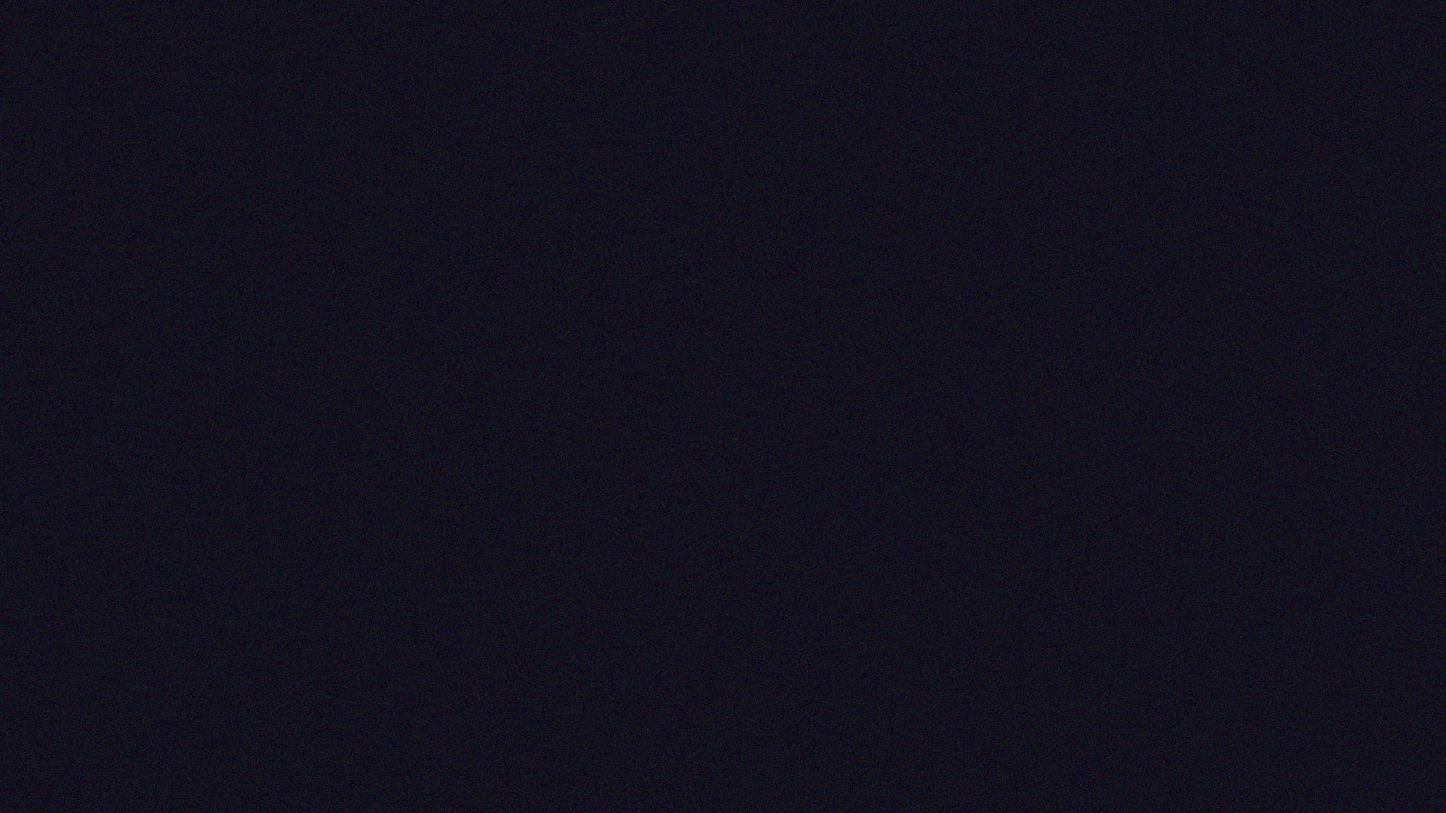
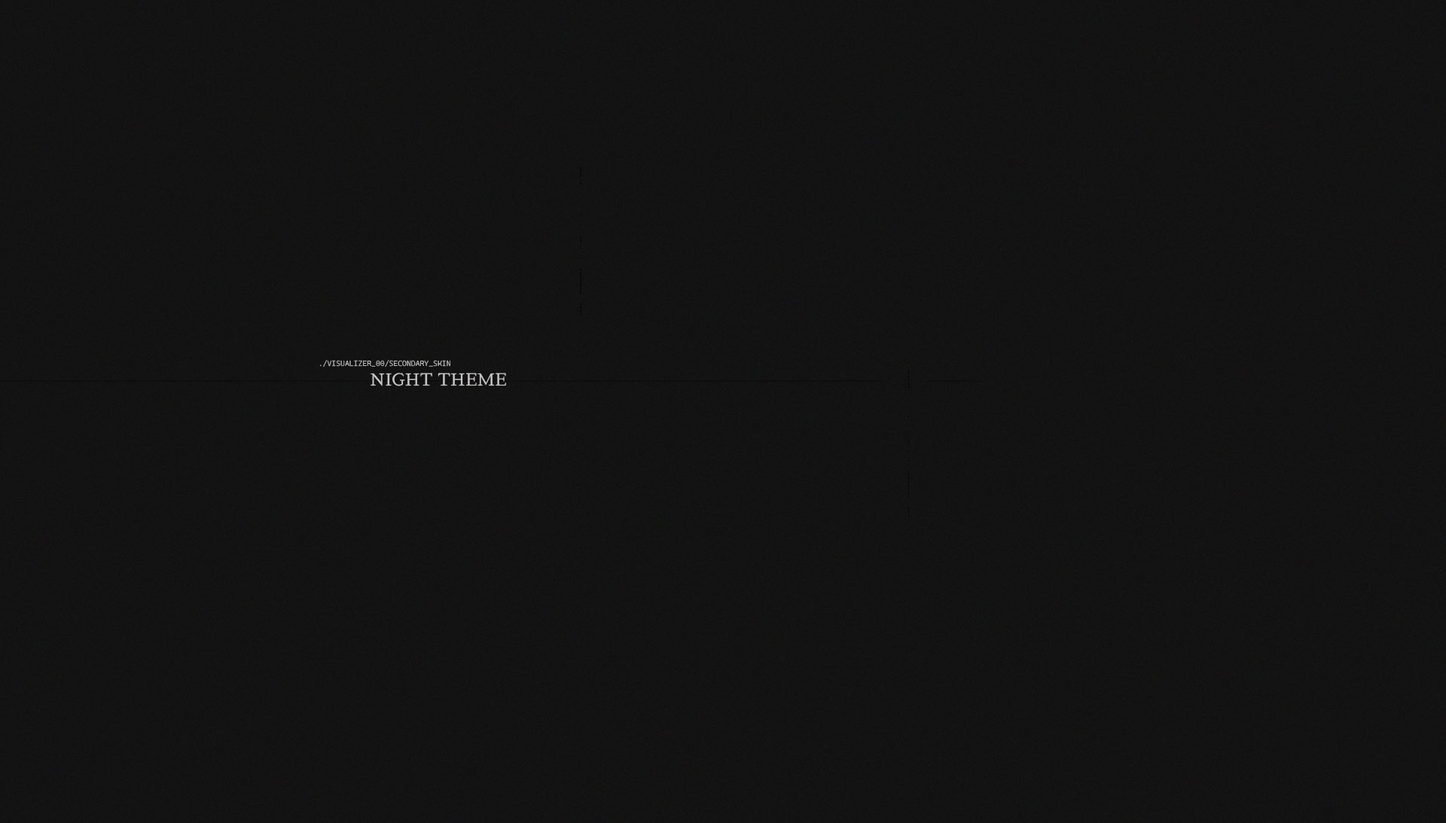
need to fix issues with pause mode in dark version

Changed region(s): [[0.2188, 0.4278, 0.3438, 0.4889]]

diff --git a/fromscratch.js b/fromscratch.js
@@ -10,7 +10,7 @@ function buttonPlayer() {
       document.title = "visualizer_01";
       imageCounter = 2;
     } else if (imageCounter === 2) {
-      container.innerHTML = `<img src="assets/v2.gif" alt="" />`;
+      container.innerHTML = `<img src="assets/v5.gif" alt="" />`;
       document.title = "visualizer_02";
       imageCounter = 3;
     } else if (imageCounter === 3) {
@@ -19,12 +19,12 @@ function buttonPlayer() {
       imageCounter = 4;
     } else if (imageCounter === 4) {
       container.classList.add("megastyled");
-      container.innerHTML = `<div><img src="assets/v8.gif" alt="" /></div>`;
+      container.innerHTML = `<div><img src="assets/v4.gif" alt="" /></div>`;
       document.title = "visualizer_03";
 
       imageCounter = 5;
     } else if (imageCounter === 5) {
-      container.innerHTML = `<img src="assets/v9.gif" "alt="" />`;
+      container.innerHTML = `<img src="assets/v7.gif" "alt="" />`;
       document.title = "visualizer_04";
       imageCounter = 4;
     }
@@ -54,22 +54,91 @@ function comeBackTitleChanger() {
 }
 comeBackTitleChanger();
 
+/* 🫐🫧☂💜⚛ NIGHT MODE*/
 function nightMode() {
   let container = document.getElementById("main1");
   let buttonNight = document.getElementById("daynightmode");
+  let previousB = document.getElementById("previousButton");
+  let playB = document.getElementById("playButton");
+  let nextB = document.getElementById("nextButton");
+  let playToR = document.getElementById("playToReco");
+  let loader5 = document.getElementById("loader55");
   let nightOrDay = false;
 
   buttonNight.addEventListener("click", (x) => {
     if (nightOrDay === false) {
-      container.classList.add("megastyled");
+      container.classList.add("batmanMode");
+      previousB.classList.add("lighter");
+      playB.classList.add("lighter");
+      nextB.classList.add("lighter");
+      loader5.classList.add("lighterLoader");
+      playToR.classList.add("lighter");
       nightOrDay = true;
     } else if (nightOrDay === true) {
-      container.classList.remove("megastyled");
+      container.classList.remove("batmanMode");
+      previousB.classList.remove("lighter");
+      playB.classList.remove("lighter");
+      nextB.classList.remove("lighter");
+      loader5.classList.remove("lighterLoader");
+      playToR.classList.remove("lighter");
       nightOrDay = false;
     }
   });
 }
 nightMode();
+
+
+
+
+
+
+
+
+
+
+
+
+
+
+
+
+
+
+
+
+
+
+
+
+
+
+
+
+
+
+
+
+
+
+
+
+
+
+
+
+
+
+
+
+
+
+
+
+
+
+
+
+
 
 /*Fibonacci
 First two numbers are 0 and 1 then the others are calculated adding the previous ones

diff --git a/style.css b/style.css
@@ -122,32 +122,26 @@ main img {
   background-size: cover;
 }
 
+
+.batmanMode{
+  background-image: none;
+background-color: #d9d3d3;
+background-image: url(./assets/cblack.jpg);
+  background-repeat: no-repeat;
+  background-size: cover;
+}
+
+
 .buttonContainer {
   width: 100%;
-  height: 8vh;
+  height: 14vh;
   position: absolute;
   display: flex;
   justify-content: center;
   align-items: center;
 }
 
-/* .buttonContainer button {
-  margin-top: 20px;
-  background-color: rgba(249, 112, 32, 0);
-  height: 40px;
-  width: 80px;
-  border-radius: 5px;
-  border: none;
-  font-size: 10px;
-  animation: ease-in-out;
-}
 
-.buttonContainer button:hover {
-  background-color: rgba(48, 28, 16, 0.048);
-  color: rgba(184, 9, 146, 0.699);
-  cursor: pointer;
-  transition-duration: 0.5s;
-} */
 
 .ui-btn {
   --btn-default-bg: rgba(245, 237, 237, 0);
@@ -158,7 +152,7 @@ main img {
   --btn-animation-duration: 1.2s;
  
   --btn-shadow: 0 2px 10px 0 var(--btn-shadow-color);
-  --hover-btn-color: #ff6ecb;
+  --hover-btn-color:  #ff06a4;
   --default-btn-color: #fff;
   --font-size: 11px;
   /* 👆 this field should not be empty */
@@ -305,4 +299,32 @@ main img {
     content: "";
     right: 0;
   }
+}
+
+.lighter{
+  color: #c9c9c9;
+  --hover-btn-color:  #985ca7;
+}
+
+.lighterLoader{
+  
+    z-index: 20;
+    border: 4px solid rgba(169, 168, 168, 0.1);
+    border-left-color: transparent;
+    border-radius: 50%;
+
+    z-index: 20;
+    border: 4px solid rgba(0, 0, 0, 0.1);
+    border-left-color: transparent;
+    width: 36px;
+    height: 36px;
+
+
+    z-index: 20;
+    border: 4px solid rgba(229, 222, 222, 0.076);
+    border-left-color: transparent;
+    width: 36px;
+    height: 36px;
+
+  
 }

diff --git a/index.html b/index.html
@@ -5,7 +5,11 @@
     <meta http-equiv="X-UA-Compatible" content="IE=edge" />
     <meta name="viewport" content="width=device-width, initial-scale=1.0" />
     <link href="https://unpkg.com/aos@2.3.1/dist/aos.css" rel="stylesheet" />
-    <link rel="shortcut icon" href="./assets/b73faab58bd29262dcefd7d8b83f71ce.png" type="image/x-icon" />
+    <link
+      rel="shortcut icon"
+      href="./assets/b73faab58bd29262dcefd7d8b83f71ce.png"
+      type="image/x-icon"
+    />
     <link rel="stylesheet" href="style.css" />
     <title>visualizer_00</title>
   </head>
@@ -18,23 +22,18 @@
 
     <div class="buttonContainer">
       <!-- <button >< PREVIOUS</button>  <button>PLAY/PAUSE</button> <button>NEXT ></button> -->
-      <button class="ui-btn">
-        <span>
-         < PREVIOUS
-        </span>
-      </button><button class="ui-btn">
-        <span id="daynightmode">
-          PLAY/PAUSE
-        </span>
-      </button><button class="ui-btn">
-        <span>
-          NEXT >
-        </span>
+      <button class="ui-btn" id="previousButton">
+        <span> < PREVIOUS </span></button
+      ><button class="ui-btn" id="playButton">
+        <span id="daynightmode"> DAY/NIGHT </span></button
+      ><button class="ui-btn" id="nextButton">
+        <span> NEXT > </span>
       </button>
     </div>
     <main id="main1">
-      <p>play to re-connect</p>
-      <div class="loader"></div>
+      <p id="playToReco">play to re-connect</p>
+      <div class="loader" id="loader55"></div>
+     
     </main>
 
     <!-- <script src="./api2.js"></script>
